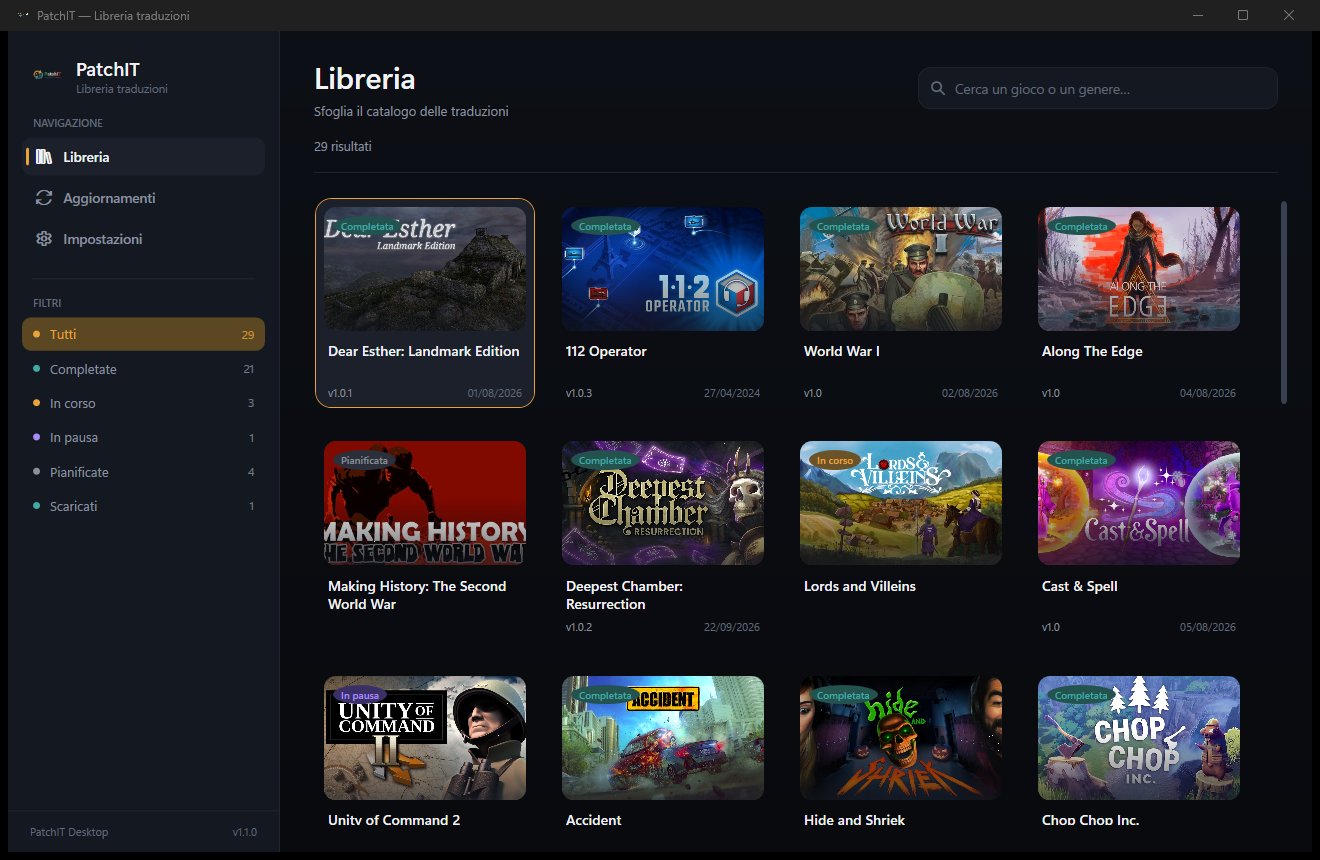
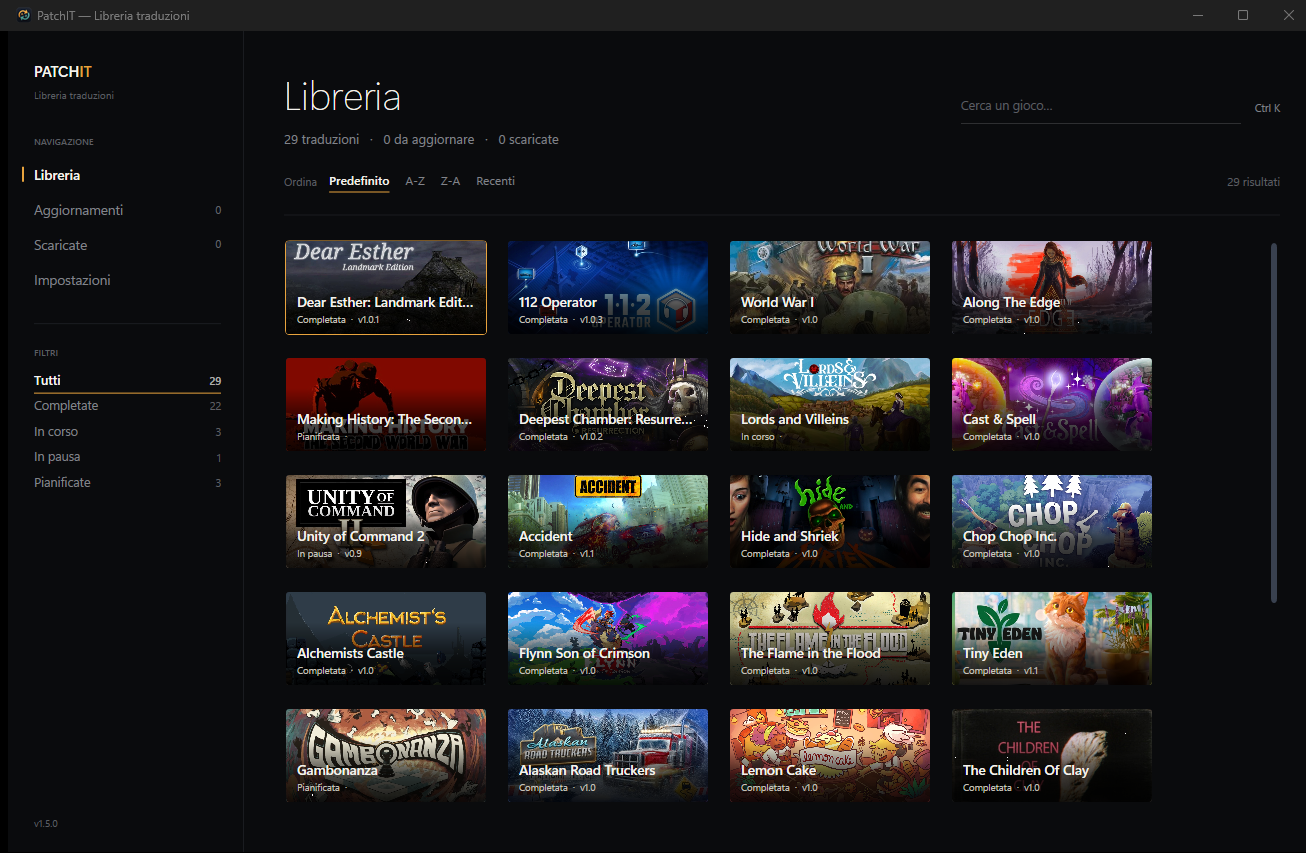
Aggiornato README.md

diff --git a/README.md b/README.md
@@ -12,15 +12,32 @@ App desktop Windows per sfogliare il catalogo delle traduzioni amatoriali di [Pa
 
 Requisiti: Windows 10/11 a 64 bit. Nessun runtime .NET richiesto (build self-contained).
 
-> Windows può mostrare il avviso "Windows ha protetto il PC" al primo avvio (l'exe non è firmata digitalmente): clicca **Più informazioni → Esegui comunque**.
+> Windows può mostrare l'avviso "Windows ha protetto il PC" al primo avvio (l'exe non è firmato digitalmente): clicca **Più informazioni → Esegui comunque**.
 
 ## Funzionalità
 
-- **Catalogo completo** con cover, ricerca e filtri per stato (completate, in corso, in pausa, pianificate)
-- **Download 1-click** con barra di progresso, nella cartella che preferisci (di default `Download\PatchIT`)
-- **Controllo aggiornamenti**: se una patch scaricata è obsoleta rispetto al sito, appare il badge "Aggiornamento disponibile"
-- **Istruzioni di installazione** e changelog integrati nella scheda di ogni gioco
+- **Catalogo completo** con cover, ricerca su titolo, descrizione e categorie, filtri per stato (completate, in corso, in pausa, pianificate) e ordinamento Predefinito, A-Z, Z-A o Recenti
+- **Ricerca globale con `Ctrl+K`**: una palette che cerca anche tra le sezioni dell'app, da guidare con `↑` `↓` e `↵`
+- **Scarica e installa in un gesto**: la patch viene scaricata, verificata e copiata nella cartella del gioco che indichi, con l'elenco completo dei file mostrato prima della copia
+- **Backup e ripristino**: i file sostituiti vengono salvati prima della copia e **Ripristina file originali** li rimette com'erano
+- **Download robusto**: barra di progresso per ogni gioco, annullamento, ripresa da dove si era fermato, verifica `sha256` e riprova automatica sugli errori di rete. La cartella di download si sceglie in Impostazioni e può essere diversa per ogni gioco (di default `Downloads\PatchIT`)
+- **Aggiorna tutto**: le patch obsolete finiscono in coda e vengono scaricate una dopo l'altra, con un unico avanzamento e il pulsante **Ferma**; le card segnalano `DA AGGIORNARE`, `SCARICATA` o `NEL GIOCO`
+- **Verifica integrità** dei file scaricati, singola o in blocco dalle Impostazioni
+- **Aggiornamento dell'app**: quando esce una nuova versione, il pulsante nel footer scarica il nuovo `PatchIT.exe`, sostituisce l'eseguibile e riavvia l'app
+- **Istruzioni di installazione e changelog** integrati nella scheda di ogni gioco, con la cronologia dei download nelle Impostazioni
 - Le patch distribuite su **Steam Workshop** si aprono direttamente nel browser
+
+## Scorciatoie
+
+| Tasto | Azione |
+| --- | --- |
+| `Ctrl+K` | Apre la palette dei comandi |
+| `Ctrl+F` | Porta il cursore nella ricerca (fuori dalla libreria apre la palette) |
+| `F5` | Ricarica il catalogo |
+| `Invio` / `Spazio` | Apre la scheda del gioco selezionato |
+| `Esc` | Chiude scheda, palette o conferma |
+| `↑` / `↓` | Con la scheda aperta, passa al gioco precedente o successivo |
+| `↵` / `Esc` | In una conferma: esegue o annulla |
 
 ## License
 
